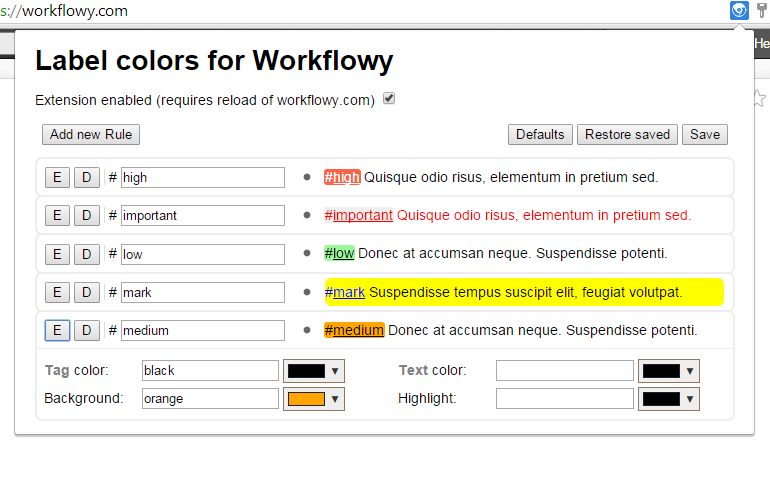
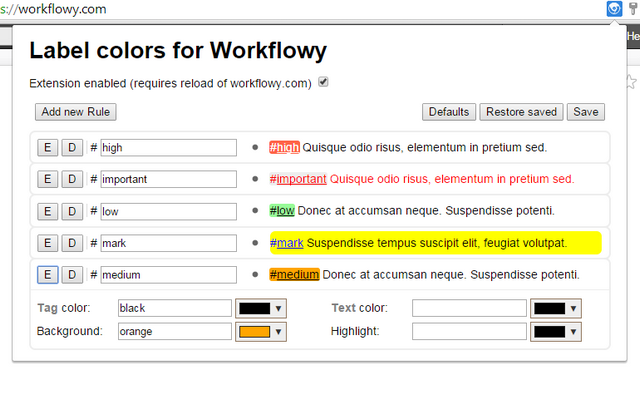
A few final changes

diff --git a/README.md b/README.md
@@ -7,7 +7,7 @@ colours to the labels or to the while task.
 
 The result is something like this:
 
-![Screenshot](webstore/screenshot-main.jpg)
+![Screenshot](webstore/screenshot-640x400-1.png)
 
 ## Licence
 This application is open source software and is available under [GPL v3.0](http://spdx.org/licenses/GPL-3.0+)
